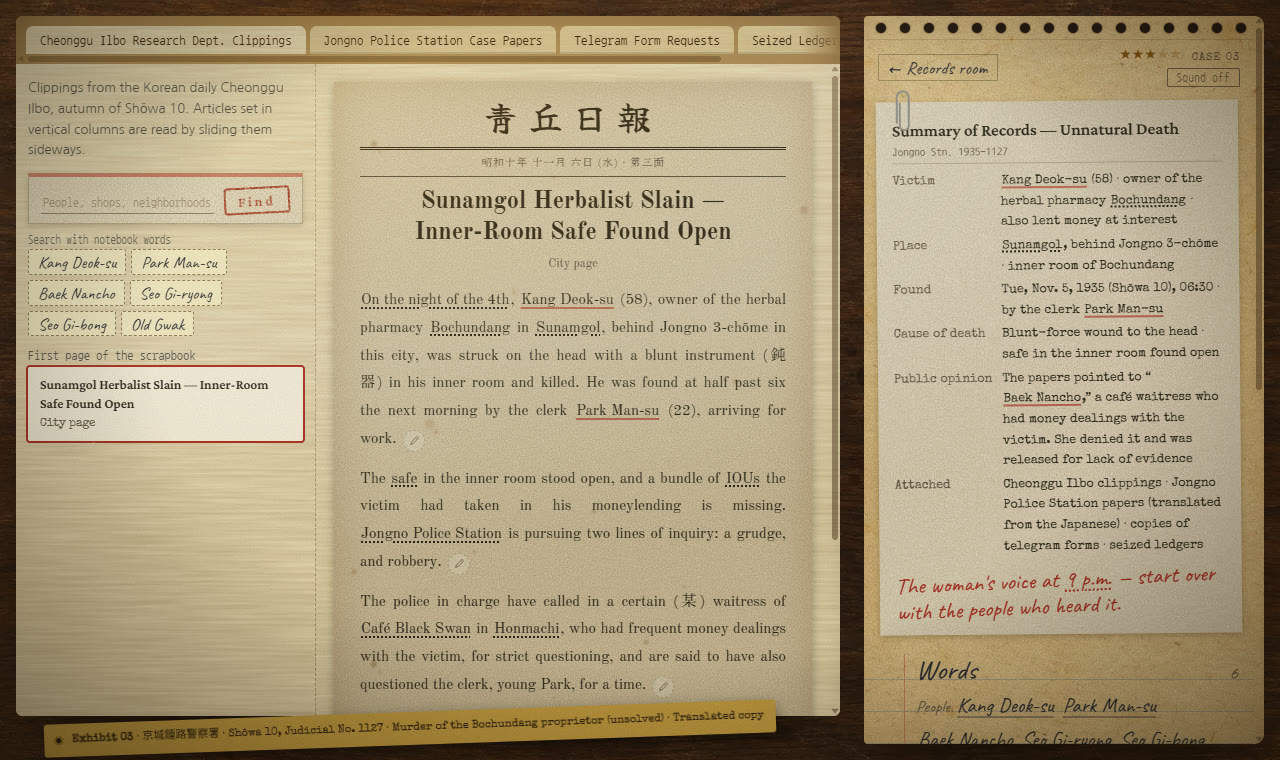
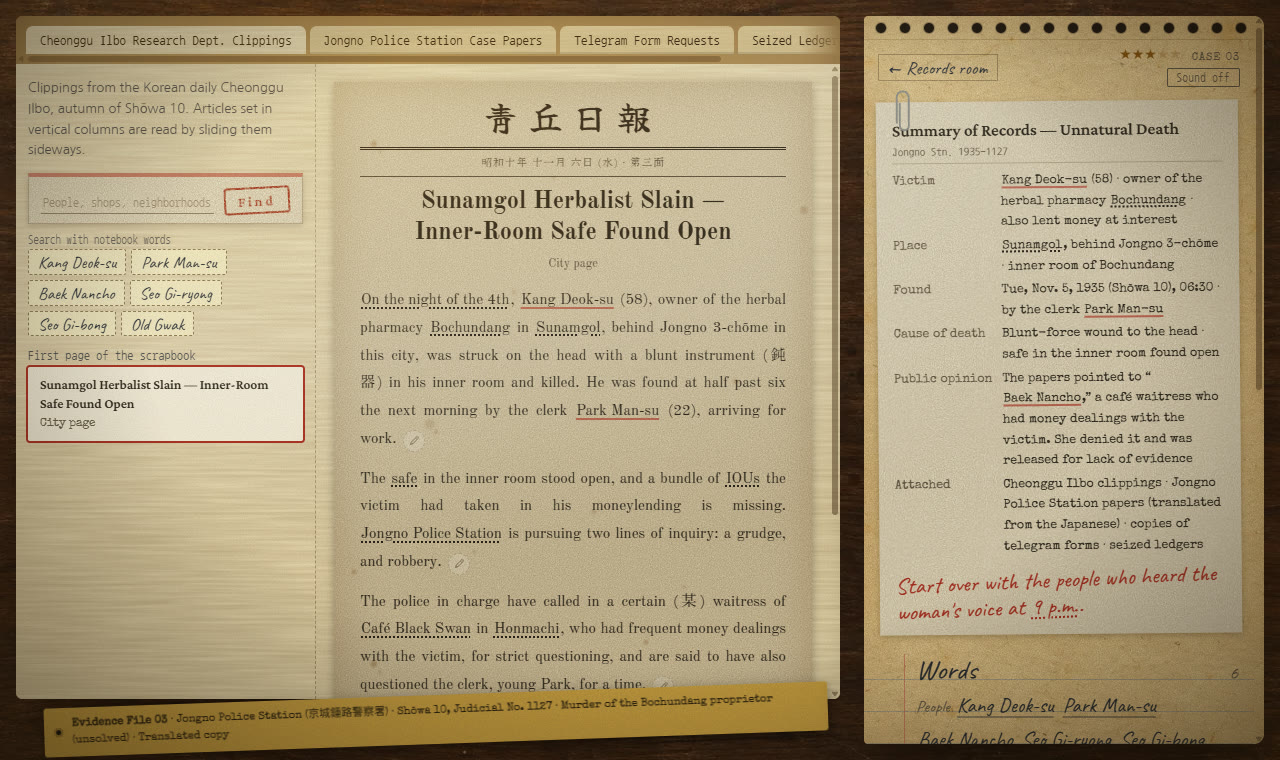
M's note on the CASE 03 summary card reads "Start over with the people who heard the woman's voice at 9 p.m." in English (after the dash was dropped it showed "9 p.m. . Start over"), and the press-page screenshots of CASE 03 and CASE 07 are retaken so their notes match the game.

Changed region(s): [[0.0, 0.8776, 0.6562, 0.9987], [0.6875, 0.7263, 0.9375, 0.8171]]

diff --git a/i18n/en/c03.js b/i18n/en/c03.js
@@ -22,7 +22,7 @@ MG.I18N.put("en", "c03", {
 "11rgwn2377d": "The papers pointed to “[[Baek Nancho|k_baek]],” a café waitress who had money dealings with the victim. She denied it and was released for lack of evidence",
 "bc8n42vyn4": "Attached",
 "1vmom2c1orh": "Cheonggu Ilbo clippings · Jongno Police Station papers (translated from the Japanese) · copies of telegram forms · seized ledgers",
-"t1o739x17u": "The woman's voice at [[9 p.m.|k_nine]] . Start over with the people who heard it.",
+"t1o739x17u": "Start over with the people who heard the woman's voice at [[9 p.m.|k_nine]].",
 "q8l0naa9ar": "Search not only by people's names but also by the names of shops, things and neighborhoods.",
 "8xi0dlssir": "To request a copy of a telegram from the post office, you need to know both the sender and the recipient.",
 "133n00k6okd": "Cheonggu Ilbo Research Dept. Clippings",
